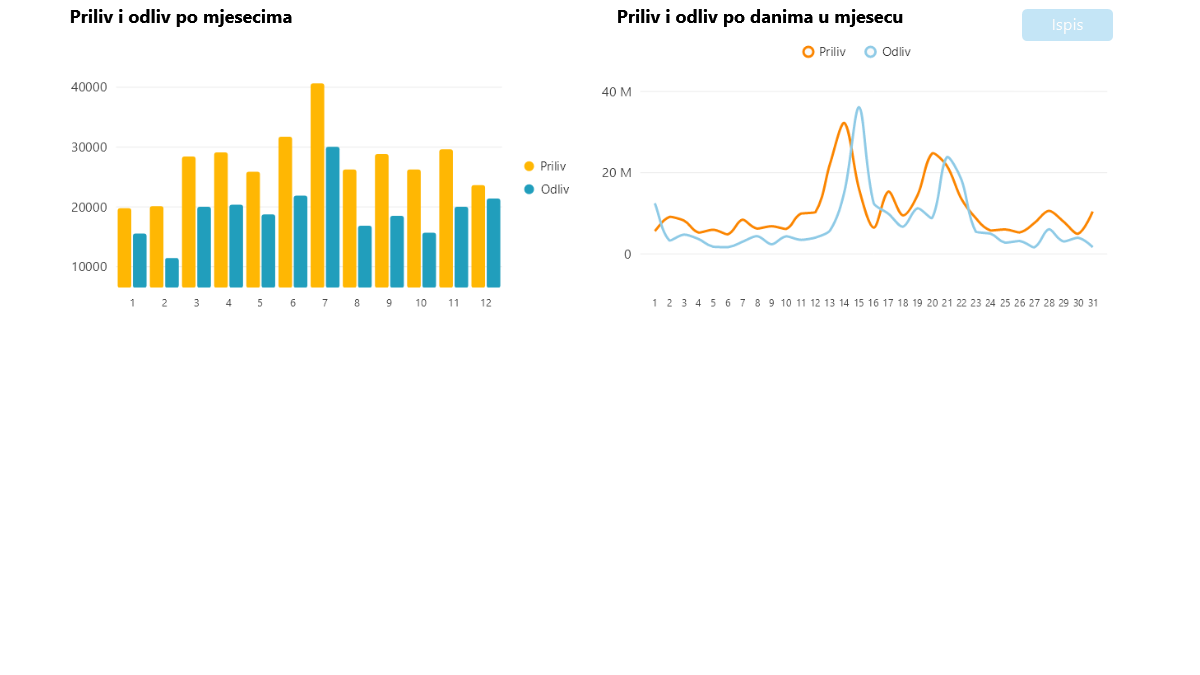
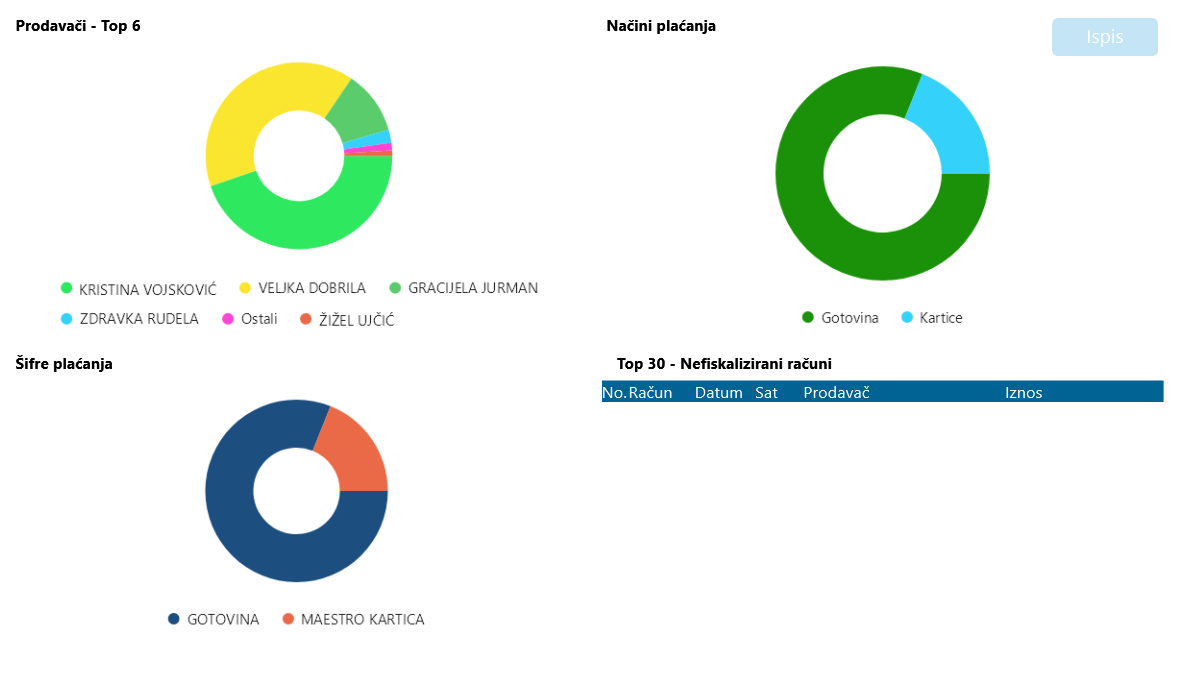
fix buttons for printing

diff --git a/scripts/wxbicfaa.xaml b/scripts/wxbicfaa.xaml
@@ -216,6 +216,9 @@ Padding="-8"
 x:Name="gbPrint1"
 Background="gray"
 TabIndex="35"
+Foreground="#FFFDFDFD"
+Content="Ispis"
+FontSize="20"
 HorizontalAlignment="Right"
 Width="110">
                 <Button.Resources>
@@ -224,13 +227,6 @@ Width="110">
             Value="6" />
                     </Style>
                 </Button.Resources>
-                <Grid Grid.Column="1">
-                    <TextBlock FontSize="20"
-           Foreground="#FFFDFDFD"
-           VerticalAlignment="Center"
-           Text="Ispis"
-           HorizontalAlignment="Center" />
-                </Grid>
             </Button>
         </Grid>
     </Viewbox>

diff --git a/scripts/wxbicfab.xaml b/scripts/wxbicfab.xaml
@@ -258,6 +258,9 @@ Padding="-8"
 x:Name="gbPrint2"
 Background="gray"
 TabIndex="35"
+Foreground="#FFFDFDFD"
+Content="Ispis"
+FontSize="20"
 HorizontalAlignment="Right"
 Width="110">
                 <Button.Resources>
@@ -266,13 +269,6 @@ Width="110">
             Value="6" />
                     </Style>
                 </Button.Resources>
-                <Grid Grid.Column="1">
-                    <TextBlock FontSize="20"
-           Foreground="#FFFDFDFD"
-           VerticalAlignment="Center"
-           Text="Ispis"
-           HorizontalAlignment="Center" />
-                </Grid>
             </Button>
         </Grid>
     </Viewbox>

diff --git a/scripts/wxbicfac.xaml b/scripts/wxbicfac.xaml
@@ -216,6 +216,9 @@ Padding="-8"
 x:Name="gbPrint3"
 Background="gray"
 TabIndex="35"
+Foreground="#FFFDFDFD"
+Content="Ispis"
+FontSize="20"
 HorizontalAlignment="Right"
 Width="110">
                 <Button.Resources>
@@ -224,13 +227,6 @@ Width="110">
             Value="6" />
                     </Style>
                 </Button.Resources>
-                <Grid Grid.Column="1">
-                    <TextBlock FontSize="20"
-           Foreground="#FFFDFDFD"
-           VerticalAlignment="Center"
-           Text="Ispis"
-           HorizontalAlignment="Center" />
-                </Grid>
             </Button>
         </Grid>
     </Viewbox>

diff --git a/scripts/wxbicfad.xaml b/scripts/wxbicfad.xaml
@@ -257,6 +257,9 @@ Padding="-8"
 x:Name="gbPrint4"
 Background="gray"
 TabIndex="35"
+Foreground="#FFFDFDFD"
+Content="Ispis"
+FontSize="20"
 HorizontalAlignment="Right"
 Width="110">
                 <Button.Resources>
@@ -265,13 +268,6 @@ Width="110">
             Value="6" />
                     </Style>
                 </Button.Resources>
-                <Grid Grid.Column="1">
-                    <TextBlock FontSize="20"
-           Foreground="#FFFDFDFD"
-           VerticalAlignment="Center"
-           Text="Ispis"
-           HorizontalAlignment="Center" />
-                </Grid>
             </Button>
         </Grid>
     </Viewbox>

diff --git a/scripts/wxbicfae.xaml b/scripts/wxbicfae.xaml
@@ -325,6 +325,9 @@ Padding="-8"
 x:Name="gbPrint5"
 Background="gray"
 TabIndex="35"
+Foreground="#FFFDFDFD"
+Content="Ispis"
+FontSize="20"
 HorizontalAlignment="Right"
 Width="110">
                 <Button.Resources>
@@ -333,13 +336,6 @@ Width="110">
             Value="6" />
                     </Style>
                 </Button.Resources>
-                <Grid Grid.Column="1">
-                    <TextBlock FontSize="20"
-           Foreground="#FFFDFDFD"
-           VerticalAlignment="Center"
-           Text="Ispis"
-           HorizontalAlignment="Center" />
-                </Grid>
             </Button>
         </Grid>
     </Viewbox>

diff --git a/scripts/wxbiposaa.xaml b/scripts/wxbiposaa.xaml
@@ -228,6 +228,9 @@ Padding="-8"
 x:Name="gbPrint1"
 Background="gray"
 TabIndex="35"
+Foreground="#FFFDFDFD"
+Content="Ispis"
+FontSize="20"
 HorizontalAlignment="Right"
 Width="110">
                 <Button.Resources>
@@ -236,13 +239,6 @@ Width="110">
             Value="6" />
                     </Style>
                 </Button.Resources>
-                <Grid Grid.Column="1">
-                    <TextBlock FontSize="20"
-           Foreground="#FFFDFDFD"
-           VerticalAlignment="Center"
-           Text="Ispis"
-           HorizontalAlignment="Center" />
-                </Grid>
             </Button>
         </Grid>
     </Viewbox>

diff --git a/scripts/wxbiposab.xaml b/scripts/wxbiposab.xaml
@@ -261,6 +261,9 @@ Padding="-8"
 x:Name="gbPrint2"
 Background="gray"
 TabIndex="35"
+Foreground="#FFFDFDFD"
+Content="Ispis"
+FontSize="20"
 HorizontalAlignment="Right"
 Width="110">
                 <Button.Resources>
@@ -269,13 +272,6 @@ Width="110">
             Value="6" />
                     </Style>
                 </Button.Resources>
-                <Grid Grid.Column="1">
-                    <TextBlock FontSize="20"
-           Foreground="#FFFDFDFD"
-           VerticalAlignment="Center"
-           Text="Ispis"
-           HorizontalAlignment="Center" />
-                </Grid>
             </Button>
         </Grid>
     </Viewbox>

diff --git a/scripts/wxbiposac.xaml b/scripts/wxbiposac.xaml
@@ -166,6 +166,9 @@ Padding="-8"
 x:Name="gbPrint3"
 Background="gray"
 TabIndex="35"
+Foreground="#FFFDFDFD"
+Content="Ispis"
+FontSize="20"
 HorizontalAlignment="Right"
 Width="110">
                 <Button.Resources>
@@ -174,13 +177,6 @@ Width="110">
             Value="6" />
                     </Style>
                 </Button.Resources>
-                <Grid Grid.Column="1">
-                    <TextBlock FontSize="20"
-           Foreground="#FFFDFDFD"
-           VerticalAlignment="Center"
-           Text="Ispis"
-           HorizontalAlignment="Center" />
-                </Grid>
             </Button>
         </Grid>
     </Viewbox>

diff --git a/scripts/wxbiprbb.xaml b/scripts/wxbiprbb.xaml
@@ -263,6 +263,9 @@ Padding="-8"
 x:Name="gbPrint2"
 Background="gray"
 TabIndex="35"
+Foreground="#FFFDFDFD"
+Content="Ispis"
+FontSize="20"
 HorizontalAlignment="Right"
 Width="110">
                 <Button.Resources>
@@ -271,13 +274,6 @@ Width="110">
             Value="6" />
                     </Style>
                 </Button.Resources>
-                <Grid Grid.Column="1">
-                    <TextBlock FontSize="20"
-           Foreground="#FFFDFDFD"
-           VerticalAlignment="Center"
-           Text="Ispis"
-           HorizontalAlignment="Center" />
-                </Grid>
             </Button>
         </Grid>
     </Viewbox>

diff --git a/scripts/wxbiprca.xaml b/scripts/wxbiprca.xaml
@@ -216,6 +216,9 @@ Padding="-8"
 x:Name="gbPrint1"
 Background="gray"
 TabIndex="35"
+Foreground="#FFFDFDFD"
+Content="Ispis"
+FontSize="20"
 HorizontalAlignment="Right"
 Width="110">
                 <Button.Resources>
@@ -224,13 +227,6 @@ Width="110">
             Value="6" />
                     </Style>
                 </Button.Resources>
-                <Grid Grid.Column="1">
-                    <TextBlock FontSize="20"
-           Foreground="#FFFDFDFD"
-           VerticalAlignment="Center"
-           Text="Ispis"
-           HorizontalAlignment="Center" />
-                </Grid>
             </Button>
         </Grid>
     </Viewbox>

diff --git a/scripts/wxbiprcb.xaml b/scripts/wxbiprcb.xaml
@@ -257,6 +257,9 @@ Padding="-8"
 x:Name="gbPrint2"
 Background="gray"
 TabIndex="35"
+Foreground="#FFFDFDFD"
+Content="Ispis"
+FontSize="20"
 HorizontalAlignment="Right"
 Width="110">
                 <Button.Resources>
@@ -265,13 +268,6 @@ Width="110">
             Value="6" />
                     </Style>
                 </Button.Resources>
-                <Grid Grid.Column="1">
-                    <TextBlock FontSize="20"
-           Foreground="#FFFDFDFD"
-           VerticalAlignment="Center"
-           Text="Ispis"
-           HorizontalAlignment="Center" />
-                </Grid>
             </Button>
         </Grid>
     </Viewbox>

diff --git a/scripts/wxbiprda.xaml b/scripts/wxbiprda.xaml
@@ -216,6 +216,9 @@ Padding="-8"
 x:Name="gbPrint1"
 Background="gray"
 TabIndex="35"
+Foreground="#FFFDFDFD"
+Content="Ispis"
+FontSize="20"
 HorizontalAlignment="Right"
 Width="110">
                 <Button.Resources>
@@ -224,13 +227,6 @@ Width="110">
             Value="6" />
                     </Style>
                 </Button.Resources>
-                <Grid Grid.Column="1">
-                    <TextBlock FontSize="20"
-           Foreground="#FFFDFDFD"
-           VerticalAlignment="Center"
-           Text="Ispis"
-           HorizontalAlignment="Center" />
-                </Grid>
             </Button>
         </Grid>
     </Viewbox>
